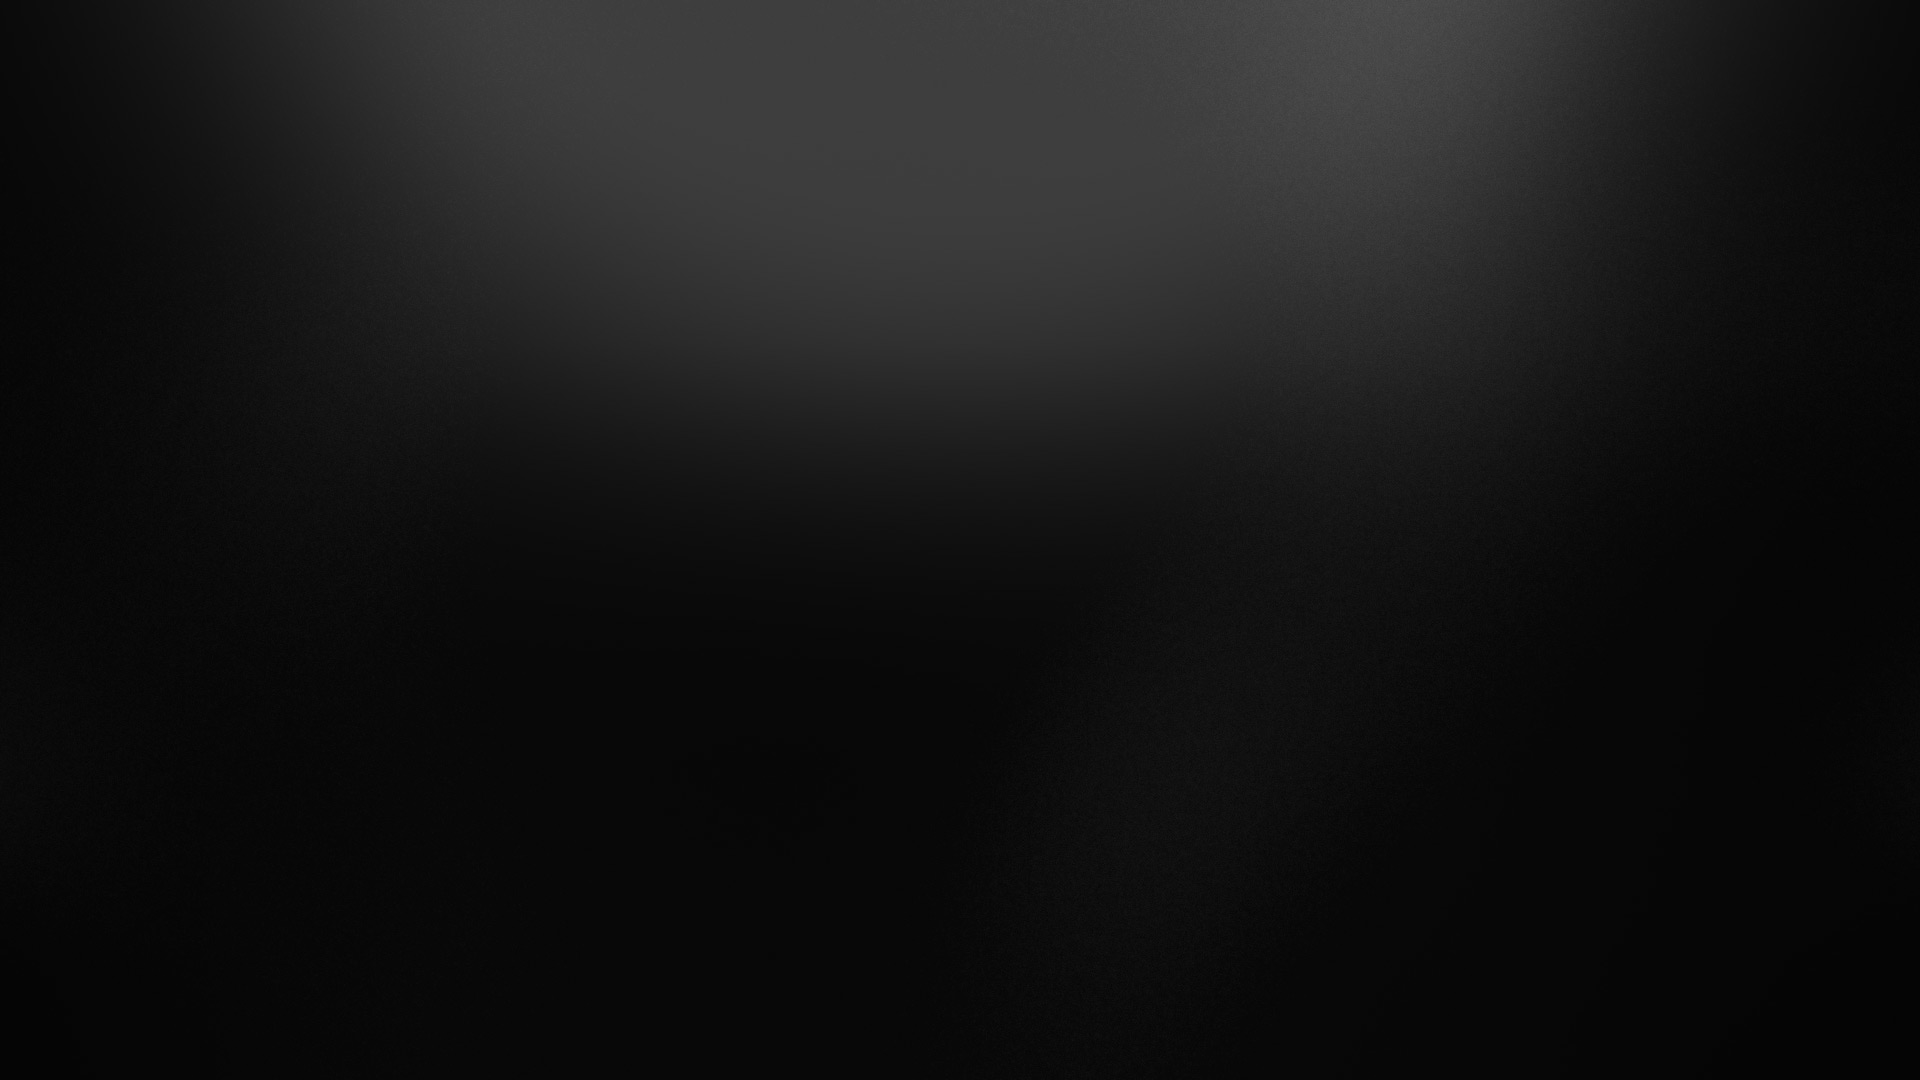
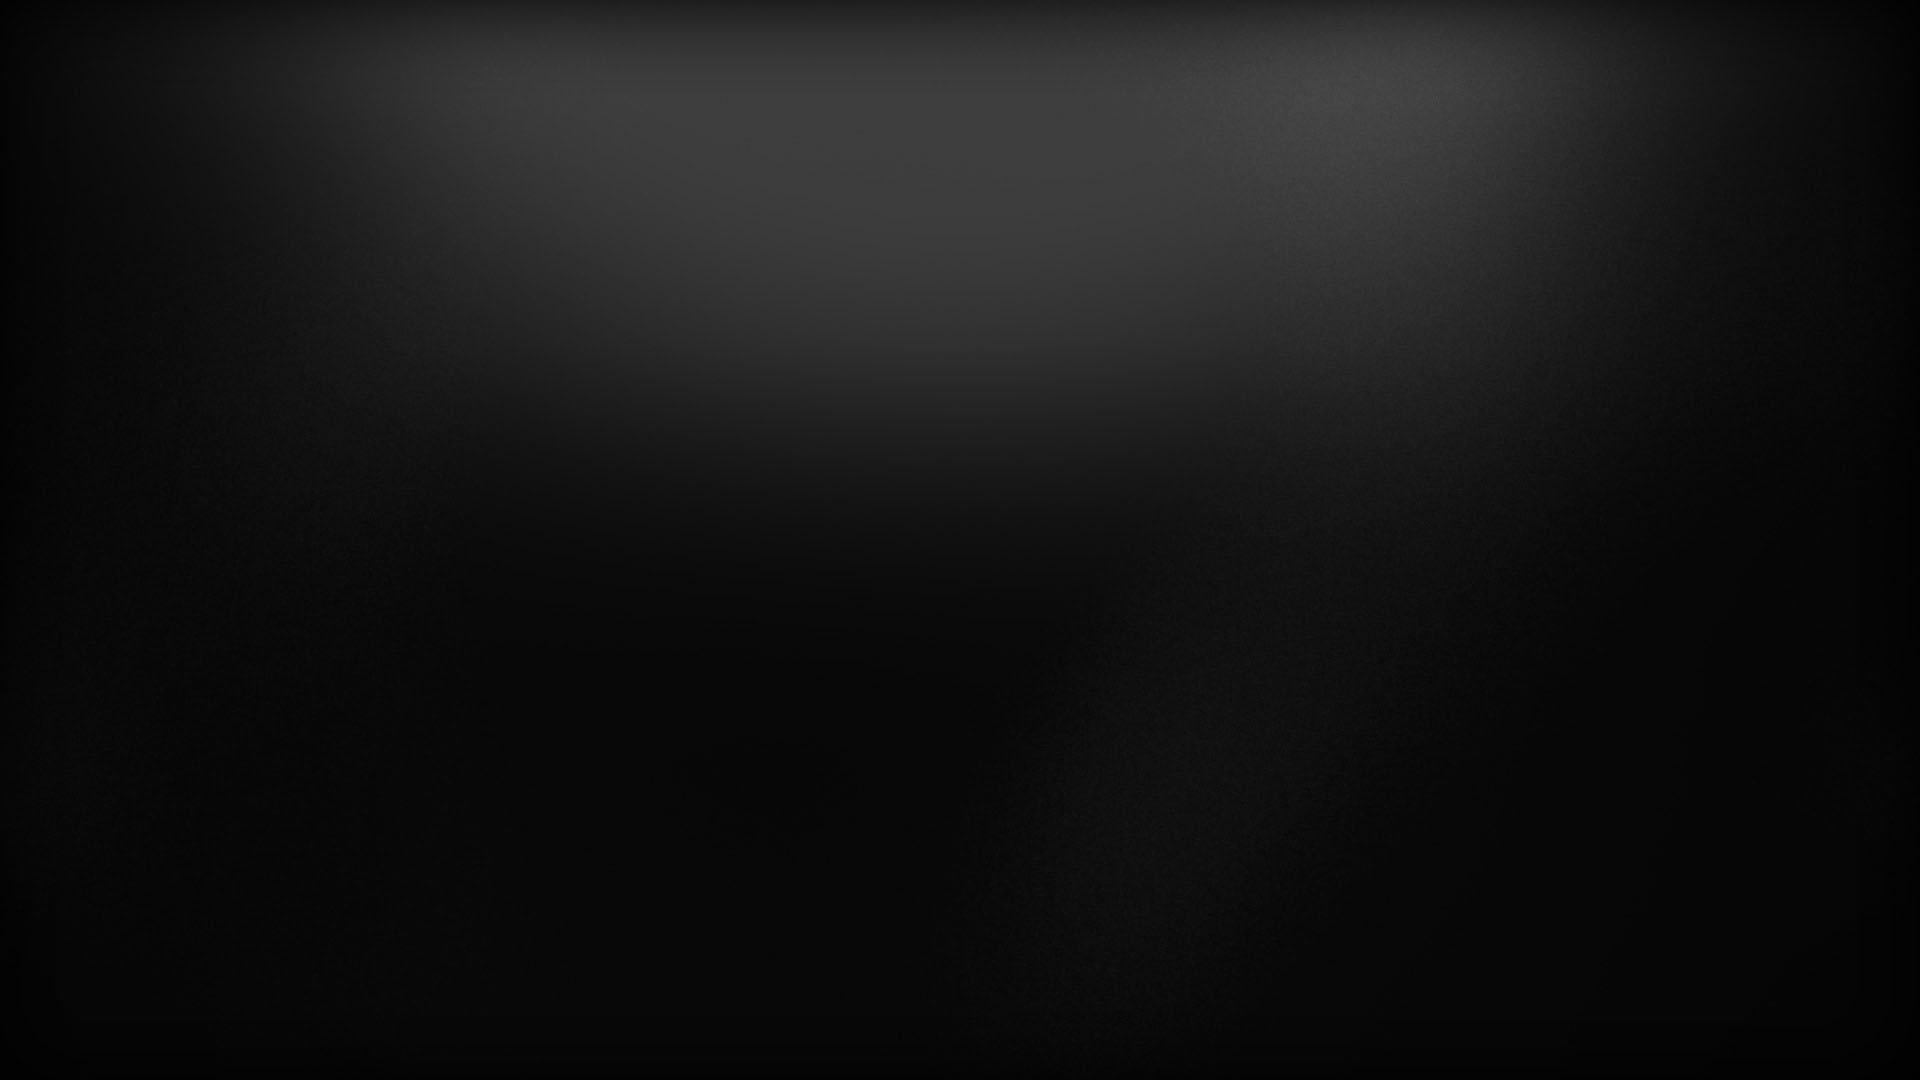
Шаманство с фоном

Changed region(s): [[0.1875, 0.0, 0.8125, 0.0306]]

diff --git a/style.css b/style.css
@@ -21,7 +21,7 @@ body
 	overflow-x: hidden;
 	margin: 0;
 	font-family: "MyriadPro";
-	background: #0d0d0d url('images/background.jpg') no-repeat;
+	background: #030303 url('images/background.jpg') no-repeat;
 	color: white;
 	position: relative;
 }
